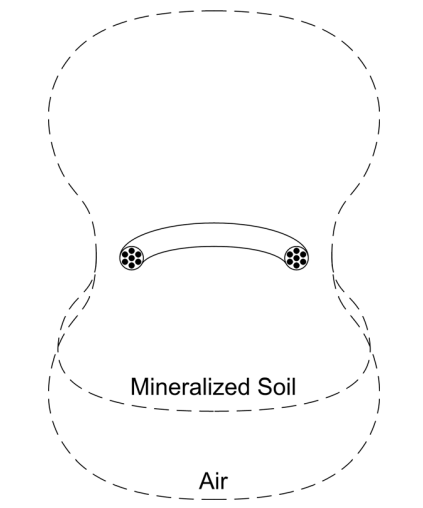
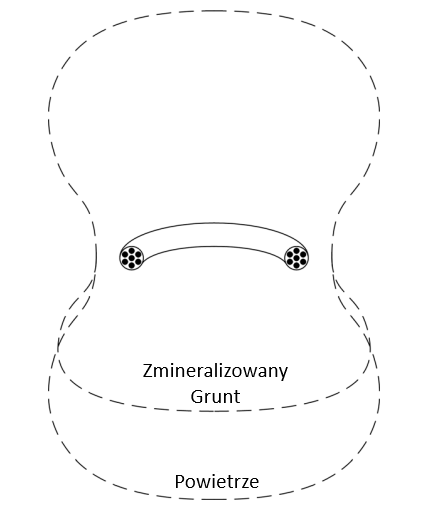
doc: przetlumaczone obrazki

Changed region(s): [[0.3073, 0.7087, 0.7069, 0.7972], [0.3995, 0.9154, 0.6147, 0.9744]]

diff --git a/doc/przeglad/Indukcja.tex b/doc/przeglad/Indukcja.tex
@@ -42,7 +42,6 @@ Wykrywacze dyskryminujące wykorzystują ten fakt, analizując powstałe przesun
     \caption{Wpływ gruntu na tworzone pole magnetyczne}\label{fig:efekt_gruntu}
     \hfill\small źródło: C. Moreland \cite{moreland_coils} 
 \end{figure}
-\todo[inline]{przetlumaczyc}
 
 Ziemia nie jest ośrodkiem neutralnym elektromagnetycznie. Zawiera tlenki żelaza (magnetyt, maghemit) o właściwościach ferromagnetycznych oraz sole przewodzące prąd (woda morska) \cite{soil_properties}.
 Elementy te zaburzają pole magnetyczne, co wpływa na sygnał powracający do wykrywacza oraz głębokość penetracji fali w kierunku gruntu \cite{moreland_coils}.

diff --git a/doc/przeglad/Sondy.tex b/doc/przeglad/Sondy.tex
@@ -8,7 +8,6 @@
     \caption{Schemat działania cewki koncentrycznej}\label{fig:minelab_concentric_coil}
     \hfill\small źródło: Minelab Electronics \cite{minelab_coils} 
 \end{figure}
-\todo[inline]{Przetlumaczyc na polski}
 
 Najczęściej stosowany rodzaj sondy w wykrywaczach metalu. Cewki koncentryczne złożone są z dwóch uzwojeń: zewnętrznego, pełniącego funkcję nadawczą, oraz wewnętrznego, odbierającą sygnał powrotny.
 Dzięki wąskiemu stożkowemu kształtowi generowanego pola elektromagnetycznego, cewka koncentryczna dobrze spełnia się podczas próby dokładnego określenia położenia szukanego obiektu \cite{moreland_bfo_theory}.

diff --git a/doc/przeglad/Elektrodynamika.tex b/doc/przeglad/Elektrodynamika.tex
@@ -35,4 +35,3 @@ To wzajemne oddziaływanie pól – pierwotnego (wymuszającego) i wtórnego (re
     \hfill\small źródło: C. Moreland \cite{moreland_induction} 
 \end{figure}
 
-\todo[inline]{przetlumaczyc}
